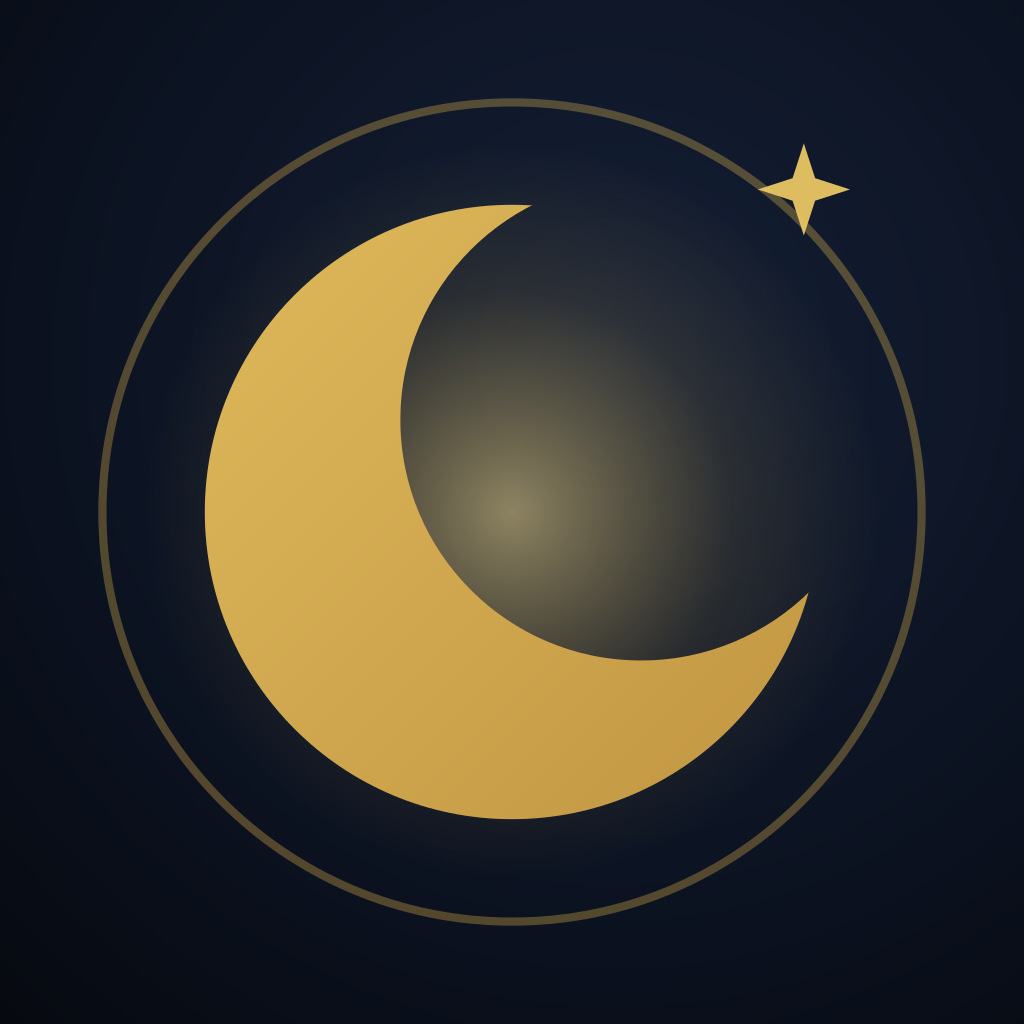
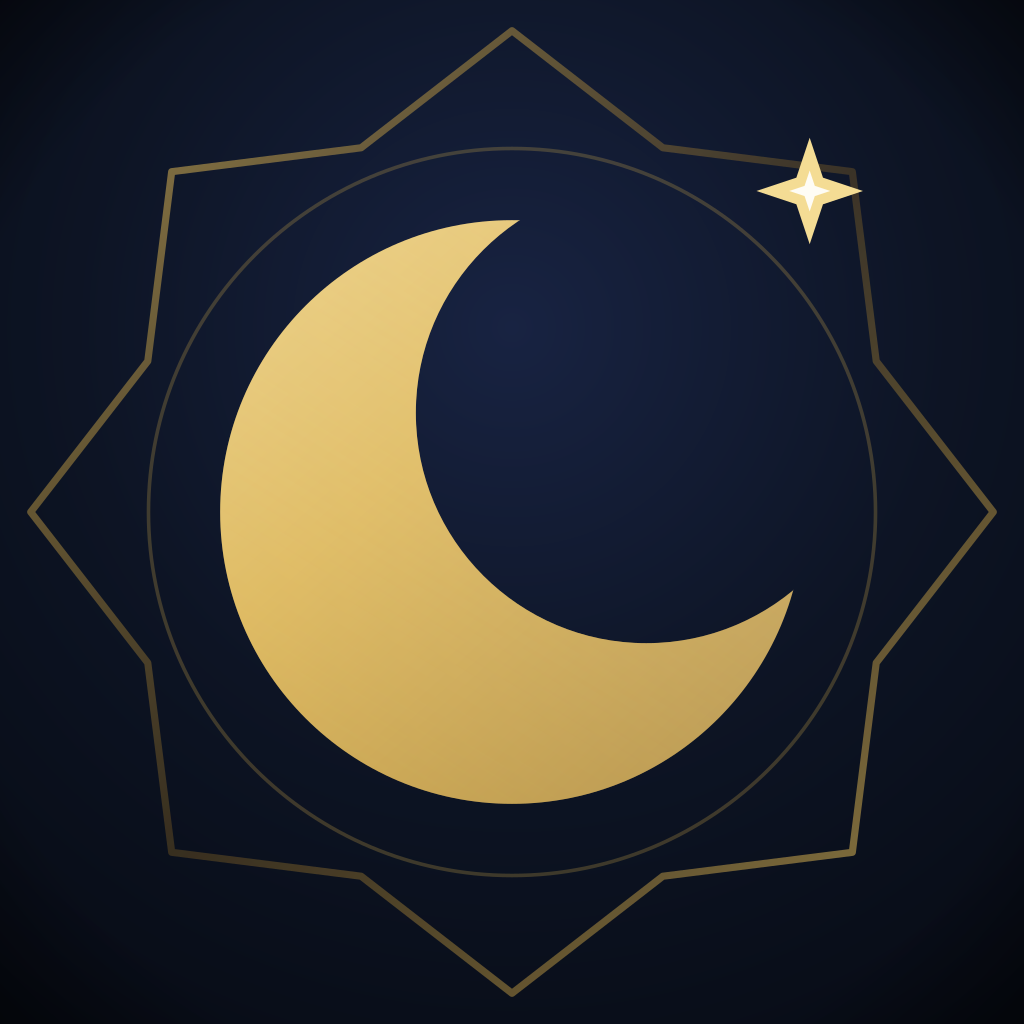
fix(mobile): final pre-APK review fixes — perms, deep-links, theme leaks, money-flow i18n, luxury mark
Everything from the last-gate review, so the single production APK ships
clean:

- app.json: unused RECORD_AUDIO + microphone usage string removed (store
  reviewers flag orphaned sensitive permissions), FINE location dropped
  for COARSE (Qibla only needs coarse), Android App Links host corrected
  from the never-owned barakah.app to barakah-hub.vercel.app,
  notification accent moved from alien green to brand gold
- Two raw i18n keys users could SEE (dashboard.donated on the home feed,
  dashboard.goBack on the analytics guard) — keys added in all 4 locales
- StatusBar icons now follow the theme — white icons vanished on the
  Light theme's paper background; LoadingScreen, members header and
  Avatar status dot stop hardcoding darkColors (dark flash / wrong
  chrome in Light)
- Pending/rejected members get an honest waiting screen instead of an
  empty dashboard, whatever the server returns
- Cold-start push taps now deep-link (getLastNotificationResponseAsync
  replay — the response listener never fires from a killed app)
- The money flow speaks all four languages: PaymentSubmitModal fully
  localized (14 new pay.* keys), dashboard My Pledge/Verified//mo
  labels, about-page Urdu scripture in Nastaliq
- ur.json 4 dead-key gaps filled; keysets verified 436/436 across
  en/ur/ar/ps
- Premium-luxury brand mark v2: 8-point Islamic rosette frame, luminous
  gradient hilal, diamond horn sparkle, velvet-ink depth (icon,
  adaptive icon, splash)
[…]

diff --git a/mobile/components/PaymentSubmitModal.tsx b/mobile/components/PaymentSubmitModal.tsx
@@ -1,3 +1,4 @@
+import { useTranslation } from 'react-i18next';
 import React, { useState } from 'react';
 import {
   View, Text, StyleSheet, Modal, ScrollView,
@@ -46,6 +47,7 @@ const STEP = 500;
 const QUICK_AMOUNTS = [500, 1000, 2000, 5000];
 
 export function PaymentSubmitModal({ visible, onClose, onSubmit, easyPaiseNumber, easyPaiseName }: PaymentSubmitModalProps) {
+  const { t } = useTranslation();
   const { colors } = useTheme();
   const styles = React.useMemo(() => makeStyles(colors), [colors]);
   const [screenshotUri, setScreenshotUri] = useState<string | undefined>();
@@ -101,7 +103,7 @@ export function PaymentSubmitModal({ visible, onClose, onSubmit, easyPaiseNumber
       setReceiptUploadFailed(false);
     } catch (err) {
       const msg = err instanceof Error ? err.message : 'Failed to submit';
-      Alert.alert('Submission failed', msg);
+      Alert.alert(t('pay.failed'), msg);
     } finally {
       setSubmitting(false);
     }
@@ -112,7 +114,7 @@ export function PaymentSubmitModal({ visible, onClose, onSubmit, easyPaiseNumber
   const handleInvalid = (formErrors: FieldErrors<FormData>) => {
     const first = Object.values(formErrors)[0];
     const msg = (first?.message as string | undefined) ?? 'Please fill all required fields correctly';
-    Alert.alert('Form incomplete', msg);
+    Alert.alert(t('pay.incomplete'), msg);
   };
 
   // Cancel should also clear typed amount, note, and attached screenshot so
@@ -134,15 +136,15 @@ export function PaymentSubmitModal({ visible, onClose, onSubmit, easyPaiseNumber
           {submitting ? (
             <View style={styles.submittingOverlay}>
               <ActivityIndicator size="large" color={colors.primary} />
-              <Text style={[styles.submittingText, { color: colors.text1 }]}>Processing…</Text>
+              <Text style={[styles.submittingText, { color: colors.text1 }]}>{t('pay.processing')}</Text>
             </View>
           ) : null}
           <View style={styles.handle} />
-          <Text style={styles.title}>Submit Payment</Text>
+          <Text style={styles.title}>{t('pay.title')}</Text>
           <ScrollView showsVerticalScrollIndicator={false} keyboardShouldPersistTaps="handled">
             {easyPaiseNumber ? (
               <View style={[styles.easyPaiseBox, { borderColor: colors.primary, backgroundColor: colors.primaryDim }]}>
-                <Text style={[styles.easyPaiseTitle, { color: colors.primary }]}>Send via EasyPaisa First</Text>
+                <Text style={[styles.easyPaiseTitle, { color: colors.primary }]}>{t('pay.easyPaisaFirst')}</Text>
                 <Text style={[styles.easyPaiseName, { color: colors.text1 }]}>
                   {easyPaiseName ? `${easyPaiseName} — ` : ''}
                   <Text style={{ fontFamily: 'SpaceMono_400Regular', fontWeight: '700' }}>{easyPaiseNumber}</Text>
@@ -159,7 +161,7 @@ export function PaymentSubmitModal({ visible, onClose, onSubmit, easyPaiseNumber
                 const num = typeof value === 'number' ? value : 0;
                 return (
                   <View style={styles.amountBlock}>
-                    <Text style={styles.fieldLabel}>Amount (PKR)</Text>
+                    <Text style={styles.fieldLabel}>{t('pay.amountPkr')}</Text>
                     <View style={styles.presetsRow}>
                       {QUICK_AMOUNTS.map((amt) => (
                         <TouchableOpacity
@@ -210,7 +212,7 @@ export function PaymentSubmitModal({ visible, onClose, onSubmit, easyPaiseNumber
               }}
             />
 
-            <Text style={styles.fieldLabel}>Fund Pool</Text>
+            <Text style={styles.fieldLabel}>{t('pay.fundPool')}</Text>
             <Controller
               control={control}
               name="pool"
@@ -236,7 +238,7 @@ export function PaymentSubmitModal({ visible, onClose, onSubmit, easyPaiseNumber
               name="monthLabel"
               render={({ field: { onChange, value } }) => (
                 <Input
-                  label="Month"
+                  label={t('pay.month')}
                   value={value}
                   onChangeText={onChange}
                   error={errors.monthLabel?.message}
@@ -250,7 +252,7 @@ export function PaymentSubmitModal({ visible, onClose, onSubmit, easyPaiseNumber
               name="note"
               render={({ field: { onChange, value } }) => (
                 <Input
-                  label="Note (optional)"
+                  label={t('pay.noteOptional')}
                   value={value ?? ''}
                   onChangeText={onChange}
                   multiline
@@ -286,9 +288,9 @@ export function PaymentSubmitModal({ visible, onClose, onSubmit, easyPaiseNumber
             ) : null}
 
             <View style={styles.buttons}>
-              <Button label="Cancel" onPress={handleCancel} variant="ghost" style={styles.btn} />
+              <Button label={t('common.cancel')} onPress={handleCancel} variant="ghost" style={styles.btn} />
               <Button
-                label={submitting ? 'Submitting…' : 'Submit'}
+                label={submitting ? t('pay.submitting') : t('pay.submit')}
                 onPress={handleSubmit(handleFormSubmit, handleInvalid)}
                 loading={submitting}
                 disabled={submitting}

diff --git a/mobile/app/(tabs)/_layout.tsx b/mobile/app/(tabs)/_layout.tsx
@@ -1,5 +1,5 @@
 import React, { useCallback } from 'react';
-import { View, StyleSheet } from 'react-native';
+import { View, Text, StyleSheet } from 'react-native';
 import { Tabs, Redirect } from 'expo-router';
 import { useAuthStore } from '@/stores/auth.store';
 import { useAppStore } from '@/stores/app.store';
@@ -48,13 +48,36 @@ function CustomTabBar() {
 
 const renderTabBar = () => <CustomTabBar />;
 
+/** Honest waiting room — a pending/rejected member must never land on an
+ * empty dashboard wondering what broke. */
+function PendingGate({ status }: { status: string }) {
+  const { colors } = useTheme();
+  const { user } = useAuthStore();
+  const rejected = status === 'rejected';
+  return (
+    <View style={[styles.container, { backgroundColor: colors.bg0, alignItems: 'center', justifyContent: 'center', padding: 32 }]}>
+      <Text style={{ fontSize: 44, marginBottom: 14 }}>{rejected ? '🚫' : '⏳'}</Text>
+      <Text style={{ color: colors.text1, fontSize: 19, fontFamily: 'Inter_700Bold', textAlign: 'center' }}>
+        {rejected ? 'Application not approved' : 'Approval pending'}
+      </Text>
+      <Text style={{ color: colors.text3, fontSize: 14, fontFamily: 'NotoNastaliqUrdu_400Regular', lineHeight: 32, textAlign: 'center', marginTop: 10 }}>
+        {rejected ? 'آپ کی درخواست منظور نہیں ہوئی · ایڈمن سے رابطہ کریں' : 'ایڈمن کی منظوری کا انتظار ہے · منظوری پر اطلاع ملے گی'}
+      </Text>
+      {user?.nameEn ? (
+        <Text style={{ color: colors.text4, fontSize: 12, fontFamily: 'Inter_400Regular', marginTop: 14 }}>{user.nameEn}</Text>
+      ) : null}
+    </View>
+  );
+}
+
 export default function TabsLayout() {
-  const { isAuthenticated } = useAuthStore();
+  const { isAuthenticated, user } = useAuthStore();
   const { colors } = useTheme();
   const { ready } = useAppLock(isAuthenticated);
 
   if (!ready) return <LoadingScreen />;
   if (!isAuthenticated) return <Redirect href={'/(auth)/login' as any} />;
+  if (user && user.status !== 'approved') return <PendingGate status={user.status} />;
 
   return (
     <View style={[styles.container, { backgroundColor: colors.bg1 }]}>

diff --git a/mobile/components/ui/Avatar.tsx b/mobile/components/ui/Avatar.tsx
@@ -2,7 +2,7 @@ import React from 'react';
 import { View, Text, StyleSheet, type ViewStyle } from 'react-native';
 import { Image } from 'expo-image';
 import { getInitials } from '@/lib/format';
-import { darkColors } from '@/lib/theme';
+import { useTheme } from '@/lib/useTheme';
 
 const RING_COLORS = [
   '#00e676', '#448aff', '#ffd740', '#ff5252', '#ea80fc', '#00e5ff',
@@ -30,6 +30,7 @@ interface AvatarProps {
 }
 
 function StatusDot({ status, size }: { status: 'online' | 'offline'; size: number }) {
+  const { colors } = useTheme();
   const dotSize = Math.max(10, size * 0.22);
   return (
     <View
@@ -39,7 +40,7 @@ function StatusDot({ status, size }: { status: 'online' | 'offline'; size: numbe
           width: dotSize,
           height: dotSize,
           borderRadius: dotSize / 2,
-          backgroundColor: status === 'online' ? darkColors.primary : darkColors.text4,
+          backgroundColor: status === 'online' ? colors.primary : colors.text4,
           bottom: 0,
           right: 0,
         },
@@ -49,6 +50,7 @@ function StatusDot({ status, size }: { status: 'online' | 'offline'; size: numbe
 }
 
 export function Avatar({ name, size = 'md', color, imageUrl, showStatus, style }: AvatarProps) {
+  const { colors } = useTheme();
   const numericSize = typeof size === 'number' ? size : SIZE_MAP[size];
   const ringColor = color ?? RING_COLORS[hashIndex(name)] ?? '#00e676';
   const initials = getInitials(name);
@@ -122,6 +124,6 @@ const styles = StyleSheet.create({
   statusDot: {
     position: 'absolute',
     borderWidth: 2,
-    borderColor: darkColors.bg1,
+    borderColor: 'rgba(10,15,26,0.85)',
   },
 });

diff --git a/mobile/components/ui/LoadingScreen.tsx b/mobile/components/ui/LoadingScreen.tsx
@@ -8,9 +8,12 @@ import Animated, {
   withTiming,
 } from 'react-native-reanimated';
 import { MaterialCommunityIcons } from '@expo/vector-icons';
-import { darkColors } from '@/lib/theme';
+import { useTheme } from '@/lib/useTheme';
 
 export function LoadingScreen() {
+  // Falls back to dark before ThemeProvider mounts (root gate) — matches
+  // the splash; inside the app it follows the active theme.
+  const { colors } = useTheme();
   const opacity = useSharedValue(0.4);
   const scale = useSharedValue(0.9);
 
@@ -32,11 +35,11 @@ export function LoadingScreen() {
   }));
 
   return (
-    <View style={styles.container}>
+    <View style={[styles.container, { backgroundColor: colors.bg0 }]}>
       <Animated.View style={animStyle}>
-        <MaterialCommunityIcons name="star-crescent" size={56} color={darkColors.primary} />
+        <MaterialCommunityIcons name="star-crescent" size={56} color={colors.primary} />
       </Animated.View>
-      <Text style={styles.text}>Barakah Hub</Text>
+      <Text style={[styles.text, { color: colors.text2 }]}>Barakah Hub</Text>
     </View>
   );
 }
@@ -44,13 +47,13 @@ export function LoadingScreen() {
 const styles = StyleSheet.create({
   container: {
     flex: 1,
-    backgroundColor: darkColors.bg0,
+    
     alignItems: 'center',
     justifyContent: 'center',
     gap: 16,
   },
   text: {
-    color: darkColors.text2,
+    
     fontSize: 16,
     fontFamily: 'Inter_600SemiBold',
     letterSpacing: 2,

diff --git a/mobile/app/_layout.tsx b/mobile/app/_layout.tsx
@@ -22,7 +22,7 @@ import i18n, { initI18n } from '@/lib/i18n';
 import { useAuth } from '@/hooks/useAuth';
 import { LoadingScreen } from '@/components/ui/LoadingScreen';
 import { ALL_THEMES, type ThemeName } from '@/lib/theme';
-import { ThemeContext, themeNameToMode } from '@/lib/useTheme';
+import { ThemeContext, themeNameToMode, useTheme } from '@/lib/useTheme';
 import { OfflineBanner } from '@/components/OfflineBanner';
 import { PushManager } from '@/components/PushManager';
 import { startNetworkListener } from '@/lib/offline';
@@ -118,6 +118,13 @@ export function ErrorBoundary({ error, retry }: { error: Error; retry: () => Pro
   );
 }
 
+/** Status-bar icons must invert with the theme — white icons vanish on
+ * the Light theme's paper background. */
+function ThemedStatusBar() {
+  const { mode } = useTheme();
+  return <StatusBar style={mode === 'light' ? 'dark' : 'light'} translucent />;
+}
+
 export default function RootLayout() {
   // fontError: if any font fails, proceed with system fallbacks — a
   // missing typeface must never hold the whole app on a blank screen.
@@ -186,7 +193,7 @@ export default function RootLayout() {
                 </Stack>
                 <OfflineBanner />
               </AuthInitializer>
-              <StatusBar style="light" translucent />
+              <ThemedStatusBar />
             </ThemeProvider>
           </I18nextProvider>
         </PersistQueryClientProvider>

diff --git a/mobile/app/(tabs)/index.tsx b/mobile/app/(tabs)/index.tsx
@@ -203,7 +203,7 @@ function PaymentBanner({ isPaid, pledge, amount, onPay }: {
             <Text style={[styles.bannerTitle, { color: '#4ec38d' }]}>{t('dashboard.thisMontPaid')}</Text>
             {amount ? <Text style={[styles.bannerSub, { color: colors.text3 }]}>{formatPKR(amount)}</Text> : null}
           </View>
-          <Badge label="Verified" variant="success" />
+          <Badge label={t('dashboard.verified')} variant="success" />
         </GlassCard>
       </Animated.View>
     );
@@ -217,7 +217,7 @@ function PaymentBanner({ isPaid, pledge, amount, onPay }: {
         </View>
         <View style={styles.bannerText}>
           <Text style={[styles.bannerTitle, { color: colors.gold }]}>{t('dashboard.paymentDue')}</Text>
-          {pledge ? <Text style={[styles.bannerSub, { color: colors.text3 }]}>{formatPKR(pledge)}/mo</Text> : null}
+          {pledge ? <Text style={[styles.bannerSub, { color: colors.text3 }]}>{formatPKR(pledge)}{t('dashboard.perMonth')}</Text> : null}
         </View>
         <Button label={t('dashboard.payNow')} onPress={onPay} variant="gold" size="sm" />
       </GlassCard>
@@ -237,7 +237,7 @@ function StatsGrid({ pledge, pendingCount, isPaid }: {
         value={formatPKRFull(pledge ?? 0)}
         animateValue={pledge ?? 0}
         format={fmtRsWorklet}
-        label="My Pledge"
+        label={t('dashboard.myPledge')}
         style={styles.statHalf}
       />
       <StatCard

diff --git a/mobile/hooks/usePushNotifications.ts b/mobile/hooks/usePushNotifications.ts
@@ -7,7 +7,7 @@ import {
   registerPushToken,
   setBadgeCount,
 } from '@/lib/push';
-import { setupNotificationListeners } from '@/lib/notifications-handler';
+import { setupNotificationListeners, handleNotificationTap } from '@/lib/notifications-handler';
 
 export interface ForegroundNotification {
   title: string | null;
@@ -52,6 +52,12 @@ export function usePushNotifications(onForeground?: ForegroundHandler): void {
         body: notification.request.content.body,
         id: notification.request.identifier,
       });
+
+    // Cold start: a push tapped while the app was KILLED opens the app
+    // but never fires the response listener — replay it once here.
+    void Notifications.getLastNotificationResponseAsync().then((resp) => {
+      if (resp) handleNotificationTap(resp.notification);
+    }).catch(() => {});
       incrementNotificationCount();
     });
     return cleanup;

diff --git a/mobile/app/members/_layout.tsx b/mobile/app/members/_layout.tsx
@@ -1,14 +1,15 @@
 import { Stack } from 'expo-router';
-import { darkColors } from '@/lib/theme';
+import { useTheme } from '@/lib/useTheme';
 
 export default function MembersLayout() {
+  const { colors } = useTheme();
   return (
     <Stack
       screenOptions={{
         headerShown: true,
-        headerStyle: { backgroundColor: darkColors.bg1 },
-        headerTintColor: darkColors.primary,
-        headerTitleStyle: { fontFamily: 'Inter_600SemiBold', color: darkColors.text1 },
+        headerStyle: { backgroundColor: colors.bg1 },
+        headerTintColor: colors.primary,
+        headerTitleStyle: { fontFamily: 'Inter_600SemiBold', color: colors.text1 },
         headerShadowVisible: false,
         animation: 'slide_from_right',
       }}

diff --git a/mobile/app/about.tsx b/mobile/app/about.tsx
@@ -171,7 +171,7 @@ const styles = StyleSheet.create({
     fontWeight: '400',
   },
   english: { fontSize: 12, fontFamily: 'Inter_400Regular', fontStyle: 'italic', lineHeight: 18, marginBottom: 6 },
-  urdu: { fontSize: 11, fontFamily: 'Inter_400Regular', textAlign: 'right', lineHeight: 20 },
+  urdu: { fontSize: 11, fontFamily: 'NotoNastaliqUrdu_400Regular', textAlign: 'right', lineHeight: 30 },
   howCard: { padding: spacing.md },
   howRow: {
     flexDirection: 'row',
